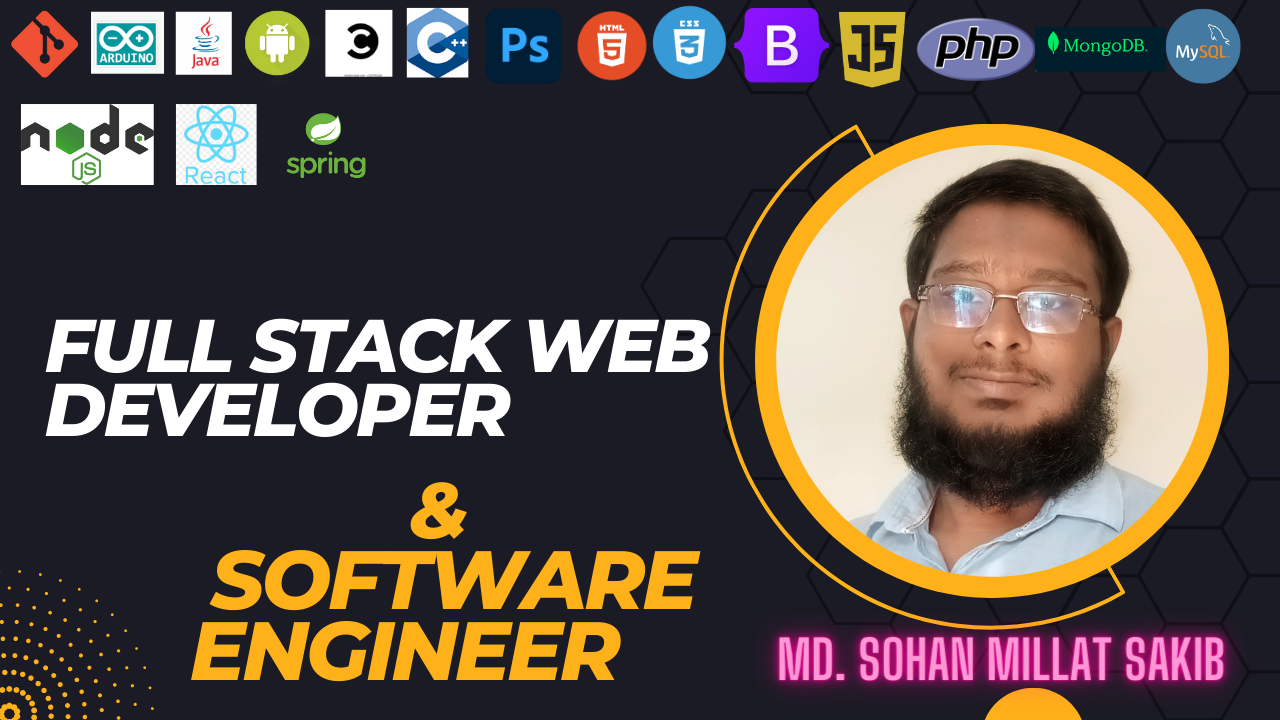
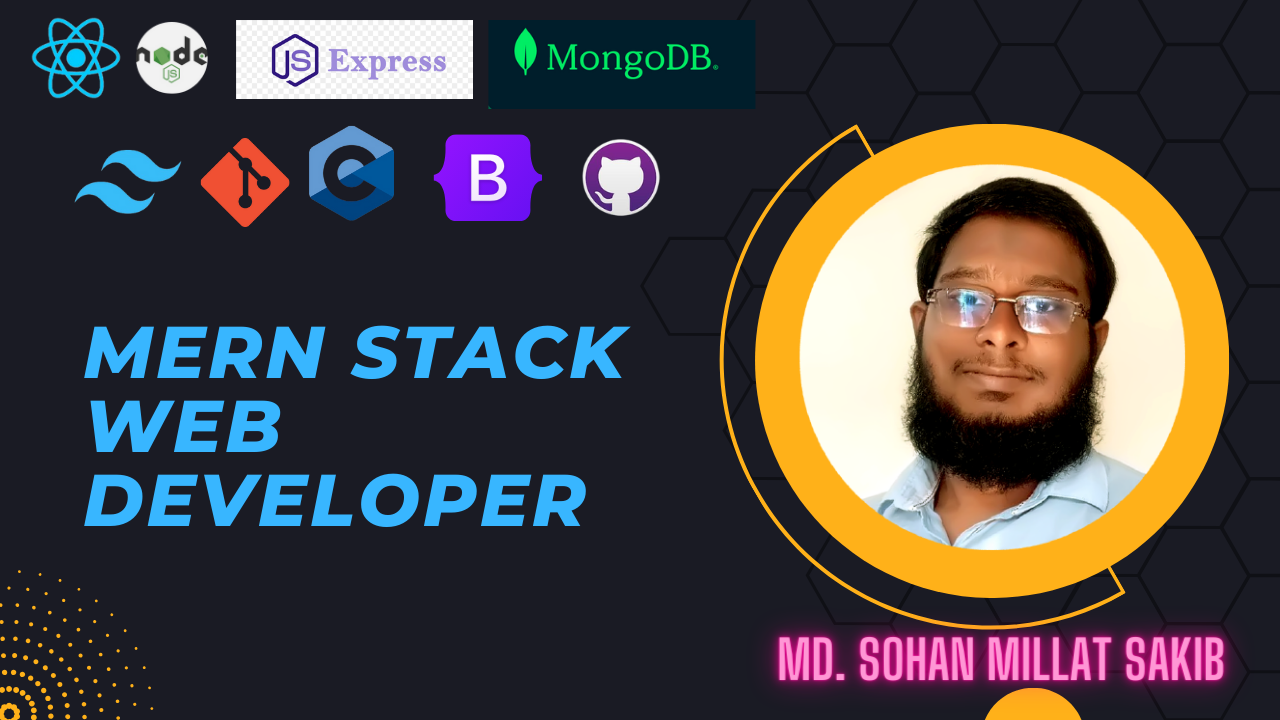
Github Overview updated

diff --git a/README.md b/README.md
@@ -1,45 +1,42 @@
-### Hellow 👋, 
+### Hellow 👋,
+
 ## I am Md. Sohan Millat Sakib
-#### I am Full Stack Web Developer and Software Engineer
-![I am Full Stack Web Developer and Software Engineer](https://github.com/MillatSakib/MillatSakib/blob/main/Full%20stack%20web%20Developer.png?raw=true)
 
-I’m a Front End Web developer who is passionate about making error-free websites with 100% client satisfaction. I have a passion for learning and sharing my knowledge with others as publicly as possible. I love to solve real-world problems. I am strategic, goal-oriented, and always work with an end goal in mind. Over the past years, I created 100s of websites for my clients. I pride myself on doing quality work and maintain excellent communication. Most of the time I work with WordPress but some technologies I enjoy working with include ReactJS, JavaScript as well as PHP.
+### I am MERN Stack Web Developer and Problem Solver
 
-Skills: REACT / JS / HTML / CSS
+![I am Full Stack Web Developer and Software Engineer](./Full%20stack%20web%20Developer.png)
 
-- 🔭 I’m currently working on Study 
-- 🌱 I’m currently learning Software Engineering 
-- 👯 I’m looking to collaborate on Github 
-- 💬 Ask me about Web Development or Software Engineering 
+Hello! I'm Md. Sohan Millat Sakib, a passionate Full stack web Developer. I have a passion for learning and sharing my knowledge with others as publicly as possible. My core skill is based on JavaScript and I love to do most of the things using JavaScript. I love to make the web more open to the world.I am strategic, goal-oriented, and always work with an end goal in mind. I am currently doing my graduation in Computer Science and Engineering at Green University of Bangladesh, located in Narayanganj, Bangladesh.
 
+Skills: REACT / Node.js / Express.Js / MongoDB / Firebase
 
-[<img src='https://cdn.jsdelivr.net/npm/simple-icons@3.0.1/icons/github.svg' alt='github' height='40'>](https://github.com/MillatSakib)  [<img src='https://cdn.jsdelivr.net/npm/simple-icons@3.0.1/icons/linkedin.svg' alt='linkedin' height='40'>](https://www.linkedin.com/in/fadjs/)  [<img src='https://cdn.jsdelivr.net/npm/simple-icons@3.0.1/icons/facebook.svg' alt='facebook' height='40'>](https://www.facebook.com/smsakib5.blogger/)  [<img src='https://cdn.jsdelivr.net/npm/simple-icons@3.0.1/icons/instagram.svg' alt='instagram' height='40'>](https://www.instagram.com/fjdsajjf/)  [<img src='https://cdn.jsdelivr.net/npm/simple-icons@3.0.1/icons/twitter.svg' alt='twitter' height='40'>](https://twitter.com/fdsafj)  [<img src='https://cdn.jsdelivr.net/npm/simple-icons@3.0.1/icons/stackoverflow.svg' alt='stackoverflow' height='40'>](https://stackoverflow.com/users/gfsgfds)  [<img src='https://cdn.jsdelivr.net/npm/simple-icons@3.0.1/icons/youtube.svg' alt='YouTube' height='40'>](https://www.youtube.com/channel/@youtubeuniversity5978)  [<img src='https://cdn.jsdelivr.net/npm/simple-icons@3.0.1/icons/reddit.svg' alt='Reddit' height='40'>](https://www.reddit.com/user/thjrw)  
+- 🔭 I’m currently working on Study
+- 🌱 I’m currently learning Full Stack Web Development
+- 👯 I’m looking to collaborate on Github
+- 💬 Ask me about Web Development
 
-<a href='https://archiveprogram.github.com/'><img src='https://raw.githubusercontent.com/acervenky/animated-github-badges/master/assets/acbadge.gif' width='40' height='40'></a> <a href='https://docs.github.com/en/developers'><img src='https://raw.githubusercontent.com/acervenky/animated-github-badges/master/assets/devbadge.gif' width='40' height='40'></a> <a href='https://github.com/pricing'><img src='https://raw.githubusercontent.com/acervenky/animated-github-badges/master/assets/pro.gif' width='40' height='40'></a> <a href='https://stars.github.com/'><img src='https://raw.githubusercontent.com/acervenky/animated-github-badges/master/assets/starbadge.gif' width='35' height='35'></a> <a href='https://docs.github.com/en/github/supporting-the-open-source-community-with-github-sponsors'><img src='https://raw.githubusercontent.com/acervenky/animated-github-badges/master/assets/sponsorbadge.gif' width='35' height='35'></a> 
+[<img src='https://cdn.jsdelivr.net/npm/simple-icons@3.0.1/icons/github.svg' alt='github' height='40'>](https://github.com/MillatSakib) [<img src='https://cdn.jsdelivr.net/npm/simple-icons@3.0.1/icons/linkedin.svg' alt='linkedin' height='40'>](https://www.linkedin.com/in/millatsakib/) [<img src='https://cdn.jsdelivr.net/npm/simple-icons@3.0.1/icons/facebook.svg' alt='facebook' height='40'>](https://www.facebook.com/millatsakib.cse/) [<img src='https://cdn.jsdelivr.net/npm/simple-icons@3.0.1/icons/stackoverflow.svg' alt='stackoverflow' height='40'>](https://stackoverflow.com/users/21309717/md-sohan-millat-sakib)
+
+<a href='https://archiveprogram.github.com/'><img src='https://raw.githubusercontent.com/acervenky/animated-github-badges/master/assets/acbadge.gif' width='40' height='40'></a> <a href='https://docs.github.com/en/developers'><img src='https://raw.githubusercontent.com/acervenky/animated-github-badges/master/assets/devbadge.gif' width='40' height='40'></a> <a href='https://github.com/pricing'><img src='https://raw.githubusercontent.com/acervenky/animated-github-badges/master/assets/pro.gif' width='40' height='40'></a> <a href='https://stars.github.com/'><img src='https://raw.githubusercontent.com/acervenky/animated-github-badges/master/assets/starbadge.gif' width='35' height='35'></a> <a href='https://docs.github.com/en/github/supporting-the-open-source-community-with-github-sponsors'><img src='https://raw.githubusercontent.com/acervenky/animated-github-badges/master/assets/sponsorbadge.gif' width='35' height='35'></a>
 
 [![trophy](https://github-profile-trophy.vercel.app/?username=MillatSakib)](https://github.com/ryo-ma/github-profile-trophy)
 
 [![Top Langs](https://github-readme-stats.vercel.app/api/top-langs/?username=MillatSakib)](https://github.com/anuraghazra/github-readme-stats)
 
-![GitHub stats](https://github-readme-stats.vercel.app/api?username=MillatSakib&show_icons=true&count_private=true)  
+![GitHub stats](https://github-readme-stats.vercel.app/api?username=MillatSakib&show_icons=true&count_private=true)
 
-![GitHub Activity Graph](https://activity-graph.herokuapp.com/graph?username=MillatSakib)  
+![GitHub Activity Graph](https://activity-graph.herokuapp.com/graph?username=MillatSakib)
 
-![GitHub metrics](https://metrics.lecoq.io/MillatSakib)  
+![GitHub metrics](https://metrics.lecoq.io/MillatSakib)
 
-![GitHub streak stats](https://streak-stats.demolab.com/?user=MillatSakib)  
+![GitHub streak stats](https://streak-stats.demolab.com/?user=MillatSakib)
 
-[![Hits](https://hits.seeyoufarm.com/api/count/incr/badge.svg?url=https%3A%2F%2Fgithub.com%2FMillatSakib&count_bg=%2379C83D&title_bg=%23555555&icon=&icon_color=%23E7E7E7&title=Visitors%28Today%2FTotal%29&edge_flat=false)](https://hits.seeyoufarm.com) 
+[![Hits](https://hits.seeyoufarm.com/api/count/incr/badge.svg?url=https%3A%2F%2Fgithub.com%2FMillatSakib&count_bg=%2379C83D&title_bg=%23555555&icon=&icon_color=%23E7E7E7&title=Visitors%28Today%2FTotal%29&edge_flat=false)](https://hits.seeyoufarm.com)
 
-<h3 align="center">A passionate Full Stack Developer from Bangladesh</h3>
-
+<h3 align="center">A passionate MERN Stack Developer from Bangladesh</h3>
 
 <p align="left">
 </p>
-
-<h3 align="left">Languages and Tools:</h3>
-<p align="left"> <a href="https://developer.android.com" target="_blank" rel="noreferrer"> <img src="https://raw.githubusercontent.com/devicons/devicon/master/icons/android/android-original-wordmark.svg" alt="android" width="40" height="40"/> </a> <a href="https://www.arduino.cc/" target="_blank" rel="noreferrer"> <img src="https://cdn.worldvectorlogo.com/logos/arduino-1.svg" alt="arduino" width="40" height="40"/> </a> <a href="https://getbootstrap.com" target="_blank" rel="noreferrer"> <img src="https://raw.githubusercontent.com/devicons/devicon/master/icons/bootstrap/bootstrap-plain-wordmark.svg" alt="bootstrap" width="40" height="40"/> </a> <a href="https://www.cprogramming.com/" target="_blank" rel="noreferrer"> <img src="https://raw.githubusercontent.com/devicons/devicon/master/icons/c/c-original.svg" alt="c" width="40" height="40"/> </a> <a href="https://www.w3schools.com/cpp/" target="_blank" rel="noreferrer"> <img src="https://raw.githubusercontent.com/devicons/devicon/master/icons/cplusplus/cplusplus-original.svg" alt="cplusplus" width="40" height="40"/> </a> <a href="https://www.w3schools.com/css/" target="_blank" rel="noreferrer"> <img src="https://raw.githubusercontent.com/devicons/devicon/master/icons/css3/css3-original-wordmark.svg" alt="css3" width="40" height="40"/> </a> <a href="https://www.djangoproject.com/" target="_blank" rel="noreferrer"> <img src="https://cdn.worldvectorlogo.com/logos/django.svg" alt="django" width="40" height="40"/> </a> <a href="https://expressjs.com" target="_blank" rel="noreferrer"> <img src="https://raw.githubusercontent.com/devicons/devicon/master/icons/express/express-original-wordmark.svg" alt="express" width="40" height="40"/> </a> <a href="https://git-scm.com/" target="_blank" rel="noreferrer"> <img src="https://www.vectorlogo.zone/logos/git-scm/git-scm-icon.svg" alt="git" width="40" height="40"/> </a> <a href="https://www.w3.org/html/" target="_blank" rel="noreferrer"> <img src="https://raw.githubusercontent.com/devicons/devicon/master/icons/html5/html5-original-wordmark.svg" alt="html5" width="40" height="40"/> </a> <a href="https://www.java.com" target="_blank" rel="noreferrer"> <img src="https://raw.githubusercontent.com/devicons/devicon/master/icons/java/java-original.svg" alt="java" width="40" height="40"/> </a> <a href="https://developer.mozilla.org/en-US/docs/Web/JavaScript" target="_blank" rel="noreferrer"> <img src="https://raw.githubusercontent.com/devicons/devicon/master/icons/javascript/javascript-original.svg" alt="javascript" width="40" height="40"/> </a> <a href="https://www.linux.org/" target="_blank" rel="noreferrer"> <img src="https://raw.githubusercontent.com/devicons/devicon/master/icons/linux/linux-original.svg" alt="linux" width="40" height="40"/> </a> <a href="https://www.mongodb.com/" target="_blank" rel="noreferrer"> <img src="https://raw.githubusercontent.com/devicons/devicon/master/icons/mongodb/mongodb-original-wordmark.svg" alt="mongodb" width="40" height="40"/> </a> <a href="https://www.mysql.com/" target="_blank" rel="noreferrer"> <img src="https://raw.githubusercontent.com/devicons/devicon/master/icons/mysql/mysql-original-wordmark.svg" alt="mysql" width="40" height="40"/> </a> <a href="https://nodejs.org" target="_blank" rel="noreferrer"> <img src="https://raw.githubusercontent.com/devicons/devicon/master/icons/nodejs/nodejs-original-wordmark.svg" alt="nodejs" width="40" height="40"/> </a> <a href="https://www.photoshop.com/en" target="_blank" rel="noreferrer"> <img src="https://raw.githubusercontent.com/devicons/devicon/master/icons/photoshop/photoshop-line.svg" alt="photoshop" width="40" height="40"/> </a> <a href="https://www.php.net" target="_blank" rel="noreferrer"> <img src="https://raw.githubusercontent.com/devicons/devicon/master/icons/php/php-original.svg" alt="php" width="40" height="40"/> </a> <a href="https://reactjs.org/" target="_blank" rel="noreferrer"> <img src="https://raw.githubusercontent.com/devicons/devicon/master/icons/react/react-original-wordmark.svg" alt="react" width="40" height="40"/> </a> <a href="https://spring.io/" target="_blank" rel="noreferrer"> <img src="https://www.vectorlogo.zone/logos/springio/springio-icon.svg" alt="spring" width="40" height="40"/> </a> </p>
-
 
 <!--
 **MillatSakib/MillatSakib** is a ✨ _special_ ✨ repository because its `README.md` (this file) appears on your GitHub profile.
